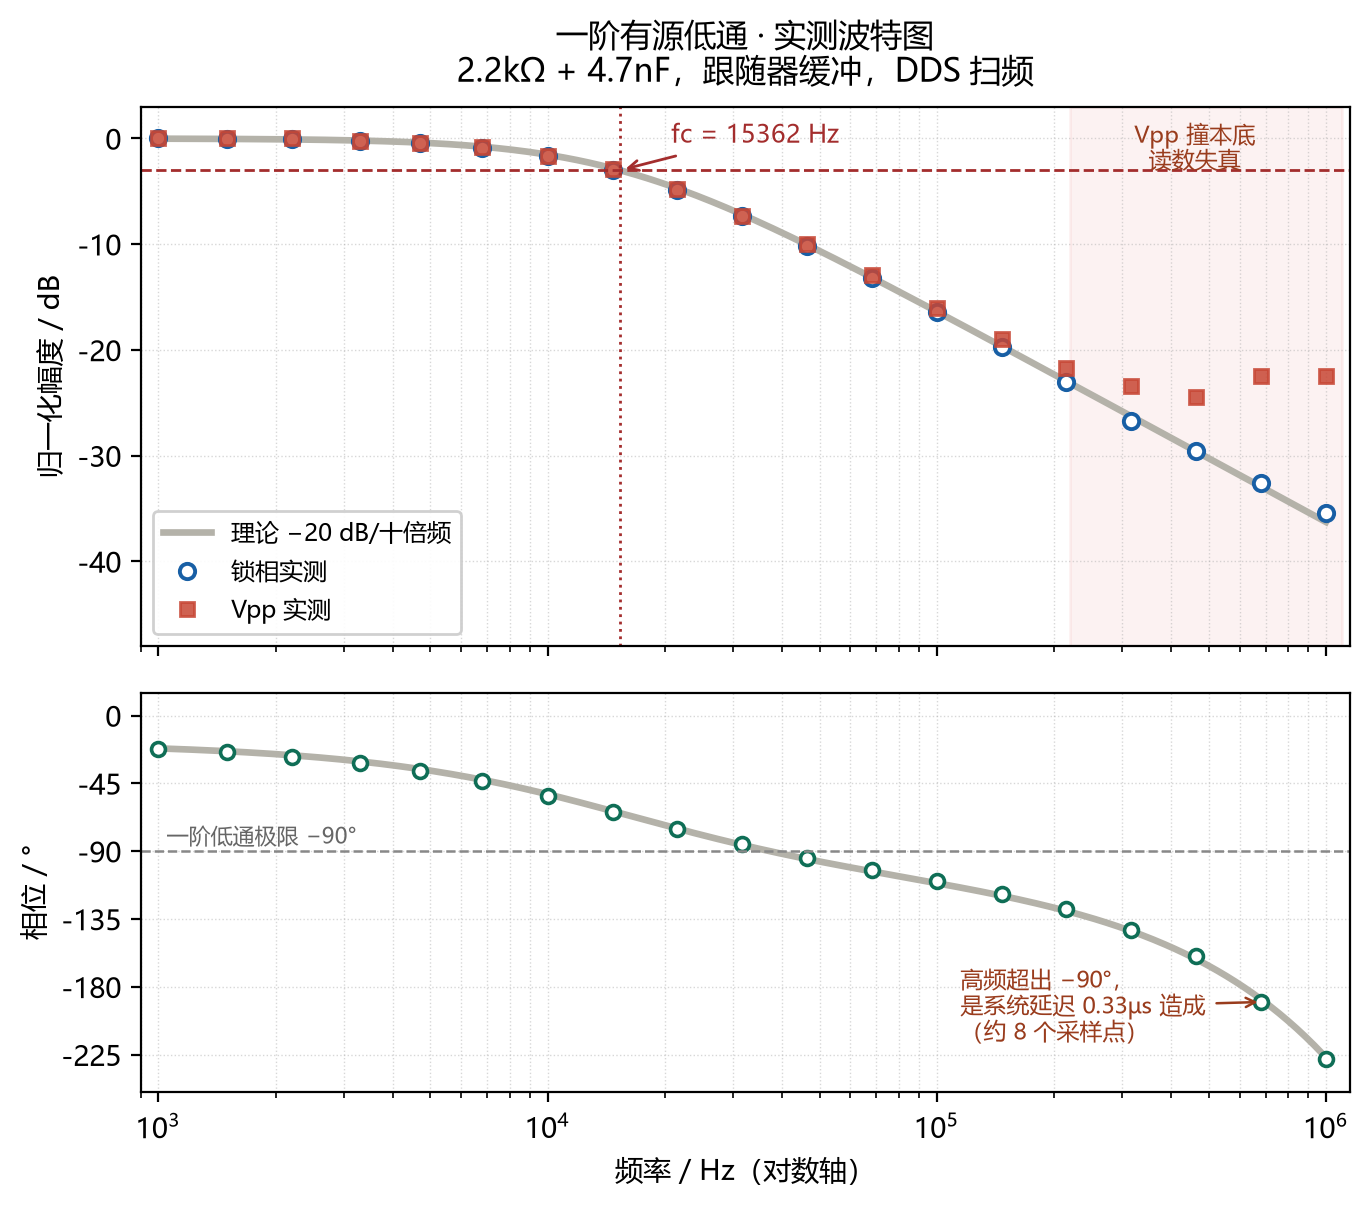
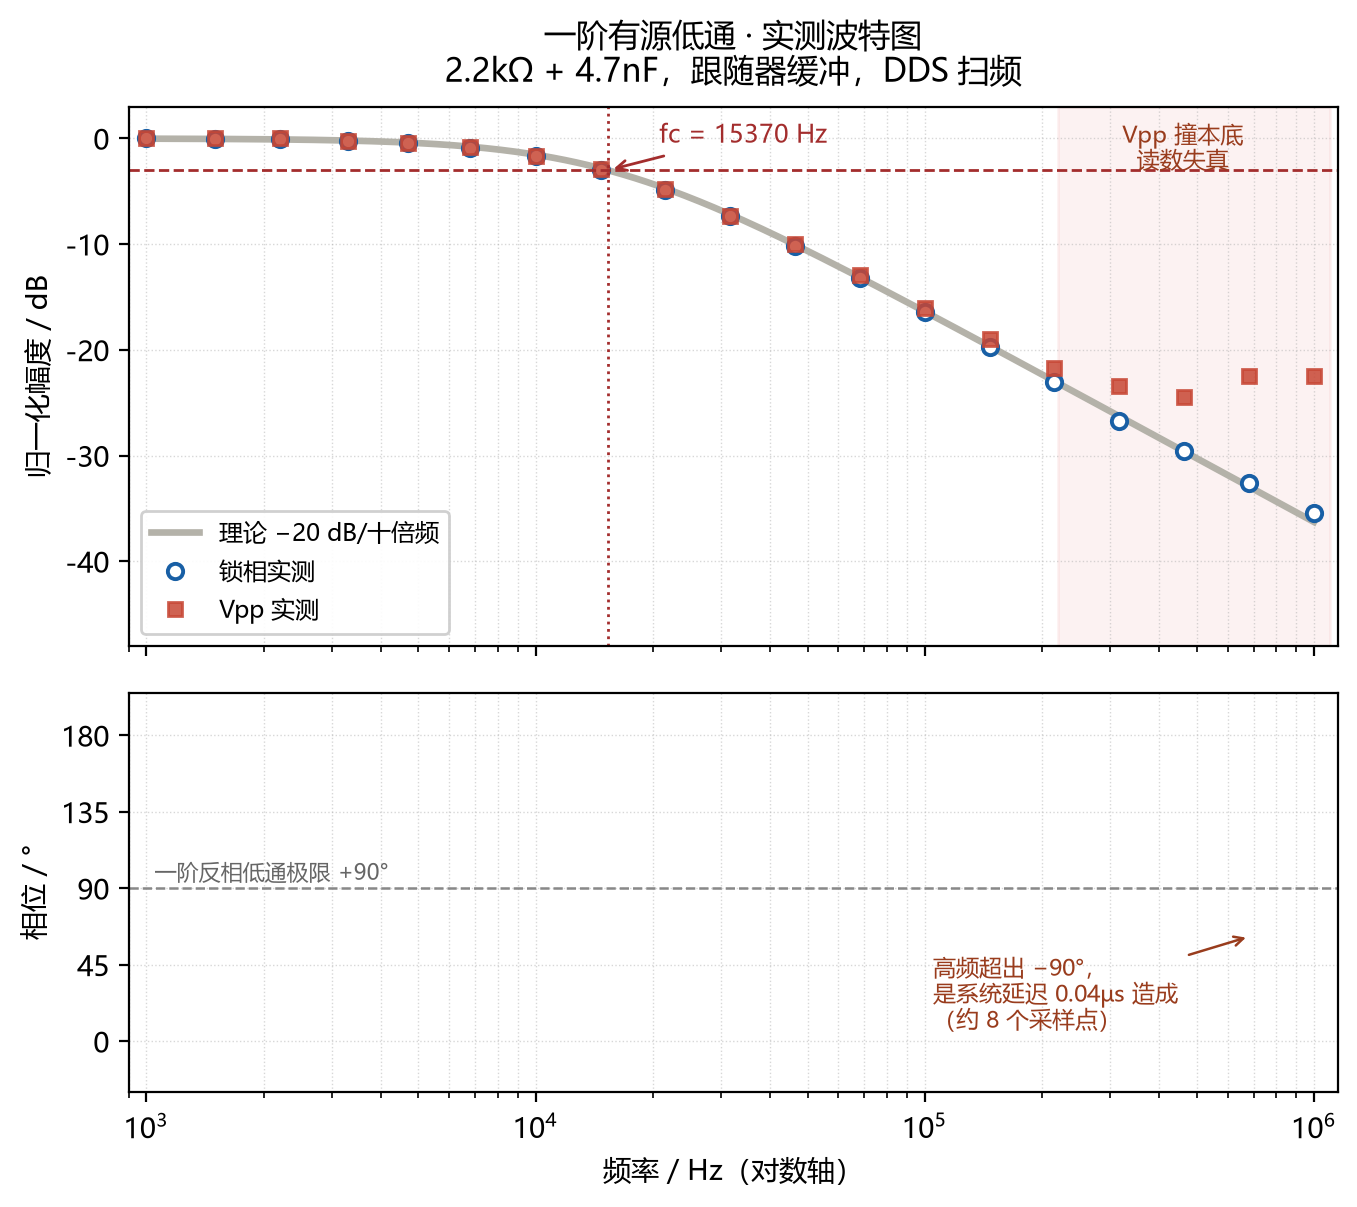
Run the through calibration, and it tells us whose delay that was
Straight-through first: the system is flat to within 0.034dB at 1MHz, so the flatness assumption
the earlier numbers rested on turns out to be sound - but now it is measured rather than assumed.

With the system response divided out, fc comes to 15370Hz against a nominal 15393 from the marked
values - 0.15 percent - and the roll-off measures -19.0 to -19.5 dB per decade across three
different spans against a theoretical -20.

The interesting part is the phase. Uncalibrated, the fit needed 0.33us of delay to explain the
curve. After subtracting the through measurement, it needs 0.04us. Those 0.29us were the DAC, the
AD driver and the sample-and-hold, not the filter - and the calibration separated them cleanly
enough to show it.

Also worth recording: the filter inverts. The phase difference sits at -175 degrees at 1kHz, i.e.
180, which makes it an inverting first-order section rather than the follower I described. The
magnitude response is unaffected, so every number above stands; only the description was wrong.

diff --git a/report/figures/fit_bode_dut.py b/report/figures/fit_bode_dut.py
@@ -40,6 +40,37 @@ def load(path):
     return rows
 
 
+def apply_thru(dut, thru):
+    """直通归一化：把系统自身的响应除掉，只留被测件。
+
+    幅度：除以 thru 的锁相值（再按 1kHz 归一）
+    相位：减去 thru 的相位，再展开成连续曲线
+    """
+    tm = {r["f"]: r for r in thru}
+    ref_d, ref_t = None, None
+    for r in sorted(dut, key=lambda x: x["f"]):
+        t = tm.get(r["f"])
+        if not t or not t["lk"] or r["lk"] is None:
+            continue
+        if ref_d is None:
+            ref_d, ref_t = r["lk"], t["lk"]
+        r["lk"] = r["lk"] / t["lk"] * ref_t      # 去掉系统幅度
+        if r["ph"] is not None and t["ph"] is not None:
+            r["ph"] = r["ph"] - t["ph"]
+    # 相位展开
+    prev = None
+    for r in sorted(dut, key=lambda x: x["f"]):
+        if r["ph"] is None:
+            continue
+        if prev is not None:
+            while r["ph"] > prev + 180:
+                r["ph"] -= 360
+            while r["ph"] < prev - 180:
+                r["ph"] += 360
+        prev = r["ph"]
+    return dut
+
+
 def unwrap(ph_list):
     """把 -180..180 的相位展开成连续序列。"""
     out = []
@@ -82,7 +113,7 @@ def fit(rows):
     fc = math.exp((lo + hi) / 2)
 
     # ---- 相位：线性最小二乘解 φ0 与 Td（fc 已定） ----
-    base = -np.degrees(np.arctan(f / fc))
+    base = 180.0 - np.degrees(np.arctan(f / fc))
     y = p - base
     A = np.column_stack([np.ones_like(f), f])
     coef, *_ = np.linalg.lstsq(A, y, rcond=None)
@@ -111,12 +142,19 @@ def main():
     T = lambda zh, en: zh if cn else en
 
     rows = load(CSV_IN)
+    thru_path = os.path.join(HERE, "..", "..", "host", "bode_thru.csv")
+    calibrated = False
+    if os.path.exists(thru_path):
+        rows = apply_thru(rows, load(thru_path))
+        calibrated = True
     f, v, p, fc, phi0, td = fit(rows)
 
     print("=" * 62)
     print("  一阶有源低通 · 实测拟合")
     print("=" * 62)
     print()
+    print("  直通校准  %s" % ("已做（系统响应已除掉）" if calibrated
+                              else "★未做，依赖系统平坦假设"))
     print("  截止频率  fc = %.0f Hz  （标称 2.2k + 4.7nF = 15393 Hz）" % fc)
     print("  相位偏移  φ0 = %+.1f°" % phi0)
     print("  系统延迟  Td = %.2f µs  （约 %.1f 个 25MSPS 采样点）"
@@ -131,7 +169,7 @@ def main():
         if not r["lk"] or r["ph"] is None:
             continue
         th = v[0] / math.sqrt(1 + (r["f"] / fc) ** 2)
-        ph_th = phi0 - math.degrees(math.atan(r["f"] / fc)) - 360 * r["f"] * td
+        ph_th = phi0 + 180.0 - math.degrees(math.atan(r["f"] / fc)) - 360 * r["f"] * td
         # 折回 -180..180 比较
         ph_w = (ph_th + 180) % 360 - 180
         print("  %-9s %-10.0f %-10.0f %+7.1f%% %-10.0f %-9.0f"
@@ -175,23 +213,23 @@ def main():
     ax1.text(4.6e5, 1.5, T("Vpp 撞本底\n读数失真", "Vpp at floor"),
              fontsize=8.2, color="#993C1D", ha="center", va="top")
 
-    ph_th = phi0 - np.degrees(np.arctan(ff / fc)) - 360 * ff * td
+    ph_th = phi0 + 180.0 - np.degrees(np.arctan(ff / fc)) - 360 * ff * td
     ax2.semilogx(ff, ph_th, "-", color="#B4B2A9", lw=2.4)
     ax2.semilogx(f, p, "o", color="#0F6E56", ms=5, mfc="white", mew=1.3)
-    ax2.axhline(-90, color="#888", ls="--", lw=0.9)
-    ax2.text(1.05e3, -85, T("一阶低通极限 −90°",
+    ax2.axhline(90, color="#888", ls="--", lw=0.9)
+    ax2.text(1.05e3, 95, T("一阶反相低通极限 +90°",
                             "first-order limit"), fontsize=8,
              color="#666")
     ax2.annotate(T("高频超出 −90°，\n是系统延迟 %.2fµs 造成\n（约 8 个采样点）"
                    % (td * 1e6),
                    "beyond -90 due to %.2fus delay" % (td * 1e6)),
-                 xy=(6.9e5, -190), xytext=(1.15e5, -215),
+                 xy=(6.9e5, 62), xytext=(1.05e5, 8),
                  fontsize=8.3, color="#993C1D",
                  arrowprops=dict(arrowstyle="->", color="#993C1D", lw=0.9))
     ax2.set_ylabel(T("相位 / °", "phase / deg"), fontsize=10)
     ax2.set_xlabel(T("频率 / Hz（对数轴）", "frequency / Hz"), fontsize=10)
-    ax2.set_ylim(-250, 15)
-    ax2.set_yticks([0, -45, -90, -135, -180, -225])
+    ax2.set_ylim(-30, 205)
+    ax2.set_yticks([180, 135, 90, 45, 0])
     ax2.grid(True, which="both", ls=":", lw=0.5, alpha=0.5)
     ax2.set_xlim(900, 1.15e6)
 
